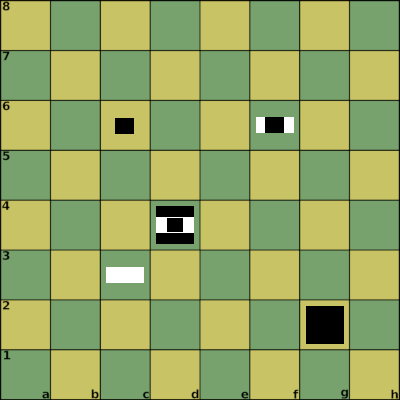
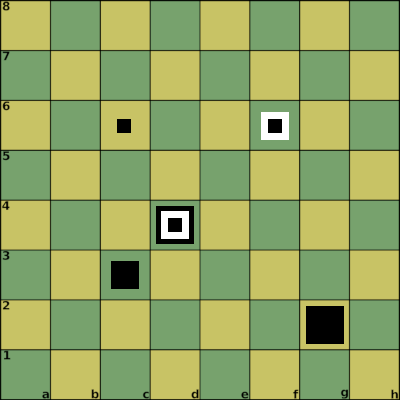
Improve manual, new pictures

diff --git a/README.md b/README.md
@@ -20,14 +20,14 @@ The goal is to capture the enemy king.
 
     * Piece shapes
 
-        Pawns (Box, HalfBox, SmallBox), King (Cylinder)
+        Pawns (Boxes), King (Cylinder)
 
         ![White Pieces](imgs/WhitePieces.png)
     
     * 96 pieces (pawns)
-        * 32 boxes
-        * 32 half boxes
-        * 32 small boxes
+        * 32 large pawns
+        * 32 medium pawns
+        * 32 small pawns
 
     * the king (cylinder)
 
@@ -35,14 +35,14 @@ The goal is to capture the enemy king.
 
     * Piece shapes
 
-        Pawns (Box, HalfBox, SmallBox), King (Cylinder)
+        Pawns (Boxes), King (Cylinder)
 
         ![Black Pieces](imgs/BlackPieces.png)
 
     * 96 pieces (pawns)
-        * 32 boxes
-        * 32 half boxes
-        * 32 small boxes
+        * 32 large pawns
+        * 32 medium pawns
+        * 32 small pawns
 
     * the king (cylinder)
 
@@ -62,15 +62,29 @@ Think of the board as 3 stacked boards on top of each other.
 
 Chess algebraic notation is used to identify board locations.
 
-https://en.wikipedia.org/wiki/Algebraic_notation_(chess)
+This is extended for Nerva by using the following syntax to identify the stacked boards:
 
-This is extended for Nerva by using the following syntax to identify levels:
+[row][column]_[board] - A pawn is placed on the board.
 
-[column][row]_[level] - A pawn is placed on the board level.
+* [row]
+  
+  From a to h
 
-[K]_[column][row]_[level] - King reveal.
+* [column]
 
-[-K]_[column][row]_[level] - King is dead, game over.
+    From 1 to 8
+
+* [board]
+
+    From 1 to 3
+
+    Board 1 is the normal chess board
+
+    This is how we identify the pieces on the 3 stacked boards
+
+[K]_[row][column]_[board] - King reveal.
+
+[-K]_[row][column]_[board] - King is dead, game over.
 
 Examples:
 
@@ -91,13 +105,13 @@ Examples:
 
 ### The pawns
 
-On a board tile, stack the pieces in this order: Box, HalfBox, and SmallBox.
+On a board tile, stack the pieces in this order: Large pawn, Medium pawn, Small pawn.
 
 ![Stacked Pawns](imgs/NervaBoard400Pawns.png)
 
 Thinking in terms of stacked boards:
 
-Board 1 uses the normal boxes, board 2 uses the half boxes, and board 3 uses the small boxes.
+Board 1 uses the large pawns, board 2 uses the medium pawns, and board 3 uses the small pawns.
 
 Examples:
 
@@ -132,7 +146,7 @@ The attack and defense will happen on these adjacent tiles.
 
 ![PawnAttacks](imgs/NervaPawnAttack.png)
 
-More details on this are in the rules of defense and attacking sections. 
+More details in the rules of defending, attacking, stacking sections. 
 
 ### The king
 
@@ -148,7 +162,7 @@ Each player gets their 96 pawns and their king.
 
 The White player places the first pawn on the board. 
 
-The pawns can be placed on any empty tile or on top of existing pawns.
+The pawns can be placed on any empty tile.
 
 A maximum of 3 pawns can be stacked on a tile.
 
@@ -164,7 +178,7 @@ Another option is to have a friend or spectator decide the positions of both kin
 
 The king will be placed on the board when it is revealed—that is, when a player places a pawn on its position.
 
-When the king is revealed, it is the duty of the player or spectator to place it on the board.
+When the king is revealed, the player or spectator will place it on the board.
 
 ### Game started
 
@@ -172,7 +186,7 @@ The starting player places a pawn, and then the players take turns placing pawns
 
 The game is over when all pawns are placed or one of the kings is dead.
 
-## The rules of defense
+## The rules of defending
 
 A pawn will add a defense point to all adjacent friendly pawns (or king).
 
@@ -188,13 +202,13 @@ Any friendly pawn on these positions will receive an additional defense point fr
 
 A pawn will add an attack point to all adjacent enemy pawns (or king).
 
-Adjacent enemy pawns can be attacked. 
+Adjacent enemy pawns can be attacked.
+
+An attack will be declared by the player, each attack takes a turn.
 
 If the attack points are higher than the defense points on a particular pawn, the attack will be successful.
 
 The pawn will be removed from the board and replaced by another pawn from the attacker.
-
-Each attack takes a turn.
 
 If you make a mistake and make an unsuccessful attack, the turn will change.
 
@@ -202,7 +216,7 @@ If you make a mistake and make an unsuccessful attack, the turn will change.
 
 When 3 pawns from the same player occupy the same position on all 3 boards (a stack of 3 pawns), then each receives 3 defense points and 3 attack points.
 
-When such a stack is formed, the existing pawn points will be replaced with 3.
+When such a stack is formed, the existing pawn attack/defense points will be replaced with 3.
 
 There is no addition of existing points, so be careful with this.
 
